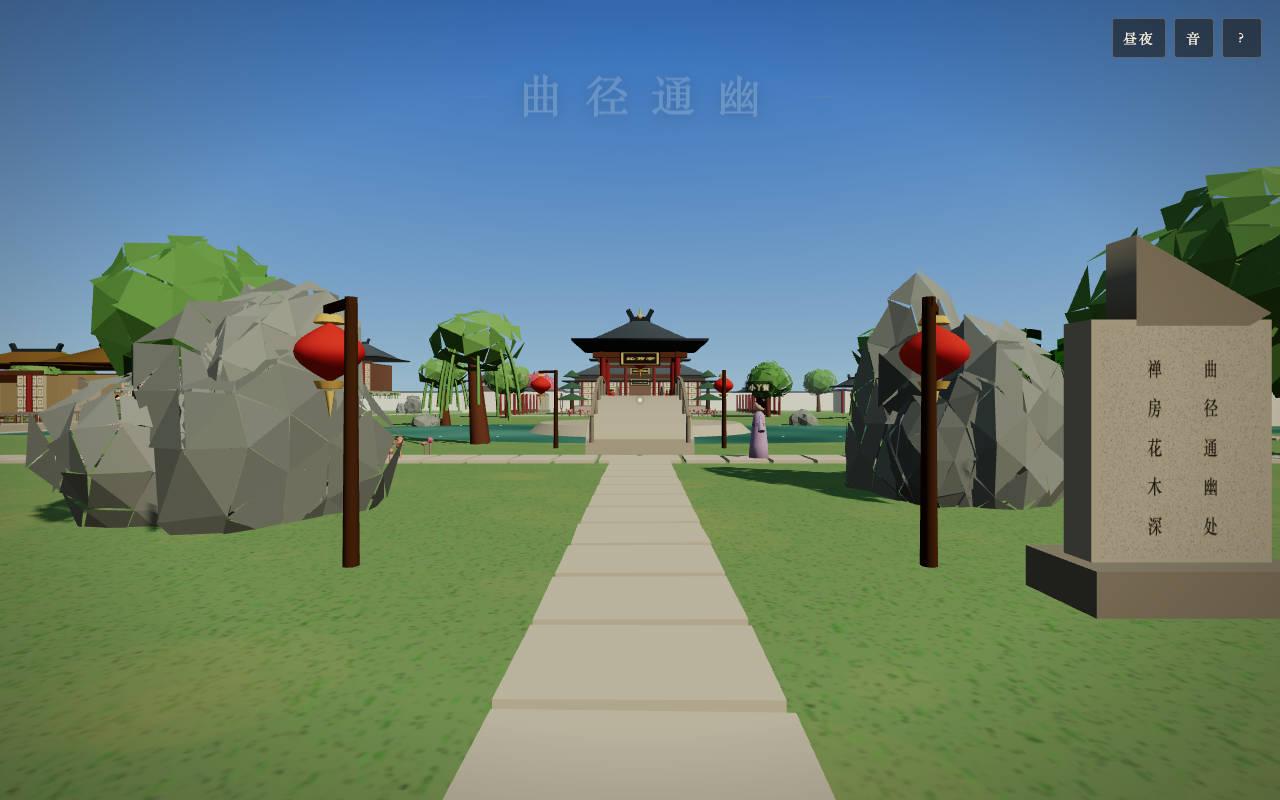
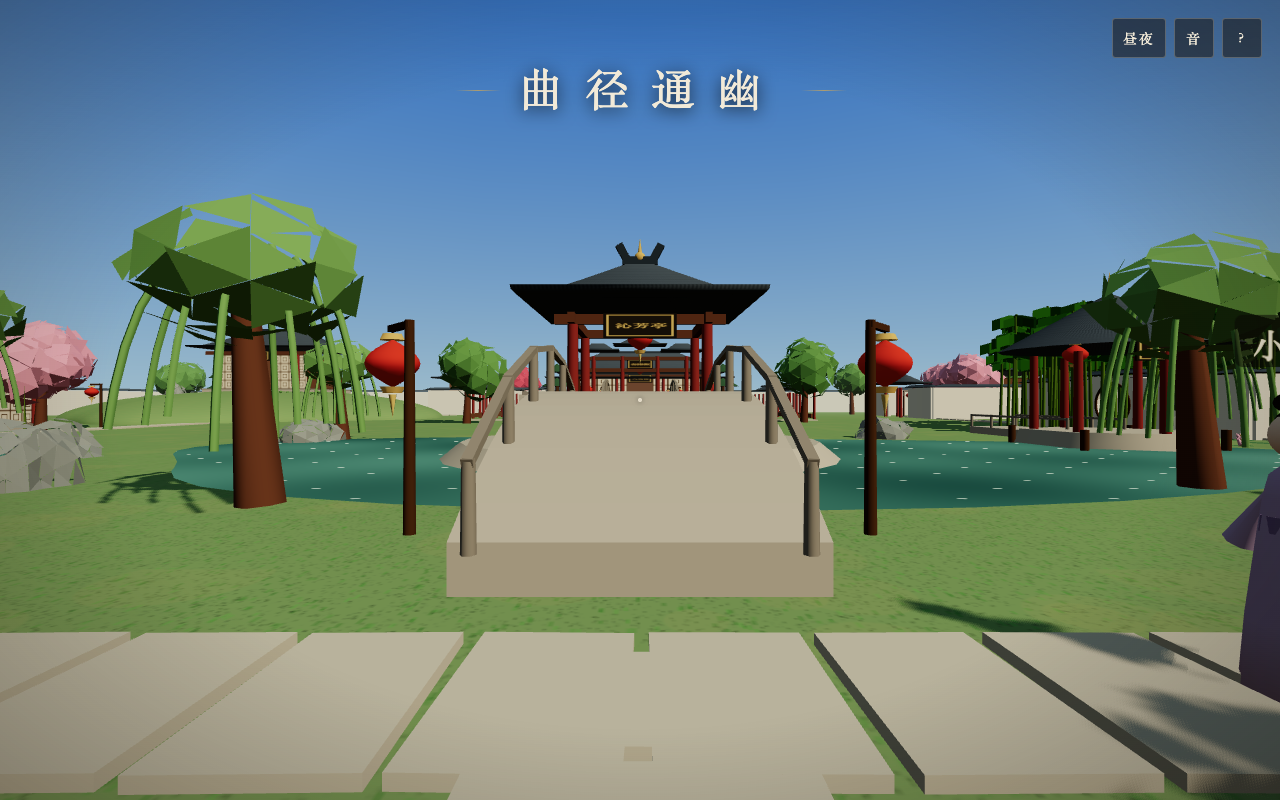
fix: 修正前进/后退方向反转，移动端支持点按文本框交互
- player: 移动公式 iz 符号错误导致 W/S 与摇杆前后反向
- hud: 对话/诗碑面板增加 touchstart 处理，移动端点按即可推进
- hud: 触屏设备隐藏 E 键提示，改为点按引导文案
- smoke: 增加行走方向回归断言

diff --git a/src/ui/hud.js b/src/ui/hud.js
@@ -61,6 +61,15 @@ export class HUD {
 
     this.$('dialogue').addEventListener('click', () => this.advanceDialogue());
     this.$('poem-panel').addEventListener('click', () => this.closePanels());
+    // 移动端：显式触摸事件，确保点按文本框即可推进/合上
+    this.$('dialogue').addEventListener('touchstart', (e) => {
+      e.preventDefault();
+      this.advanceDialogue();
+    }, { passive: false });
+    this.$('poem-panel').addEventListener('touchstart', (e) => {
+      e.preventDefault();
+      this.closePanels();
+    }, { passive: false });
 
     this.$('btn-cycle').addEventListener('click', () => {
       const mode = this.engine.toggleCycle();
@@ -121,6 +130,7 @@ export class HUD {
     this.player.enabled = false;
     this.$('dialogue').classList.remove('hidden');
     this.$('dlg-name').textContent = npc.cfg.name;
+    this.$('dlg-next').textContent = this.player.isTouchDevice ? '点击文本继续 ▸' : '按 E 或点击继续 ▸';
     this.showLine();
     this.syncResumeOverlay();
   }
@@ -211,7 +221,7 @@ export class HUD {
       this.interactTarget = best;
       const hint = this.$('interact-hint');
       if (best) {
-        hint.innerHTML = `<b>E</b>${best.label}`;
+        hint.innerHTML = this.player.isTouchDevice ? best.label : `<b>E</b>${best.label}`;
         hint.classList.remove('hidden');
         if (this.player.isTouchDevice) {
           const btn = this.$('touch-interact');

diff --git a/src/core/player.js b/src/core/player.js
@@ -179,10 +179,11 @@ export class Player {
     const running = this.keys.has('ShiftLeft') || this.keys.has('ShiftRight');
     const speed = running ? 7.2 : 4.2;
 
-    // 朝向旋转
+    // 朝向旋转：view = (-sin yaw, 0, -cos yaw)，right = (cos yaw, 0, -sin yaw)
+    // W 时 iz=-1，应沿 view 方向移动
     const sin = Math.sin(this.yaw), cos = Math.cos(this.yaw);
-    const wishX = (ix * cos - iz * sin) * speed;
-    const wishZ = (ix * sin + iz * cos) * speed * -1;
+    const wishX = (ix * cos + iz * sin) * speed;
+    const wishZ = (iz * cos - ix * sin) * speed;
 
     // 平滑加減速
     const accel = this.grounded ? 14 : 4;
